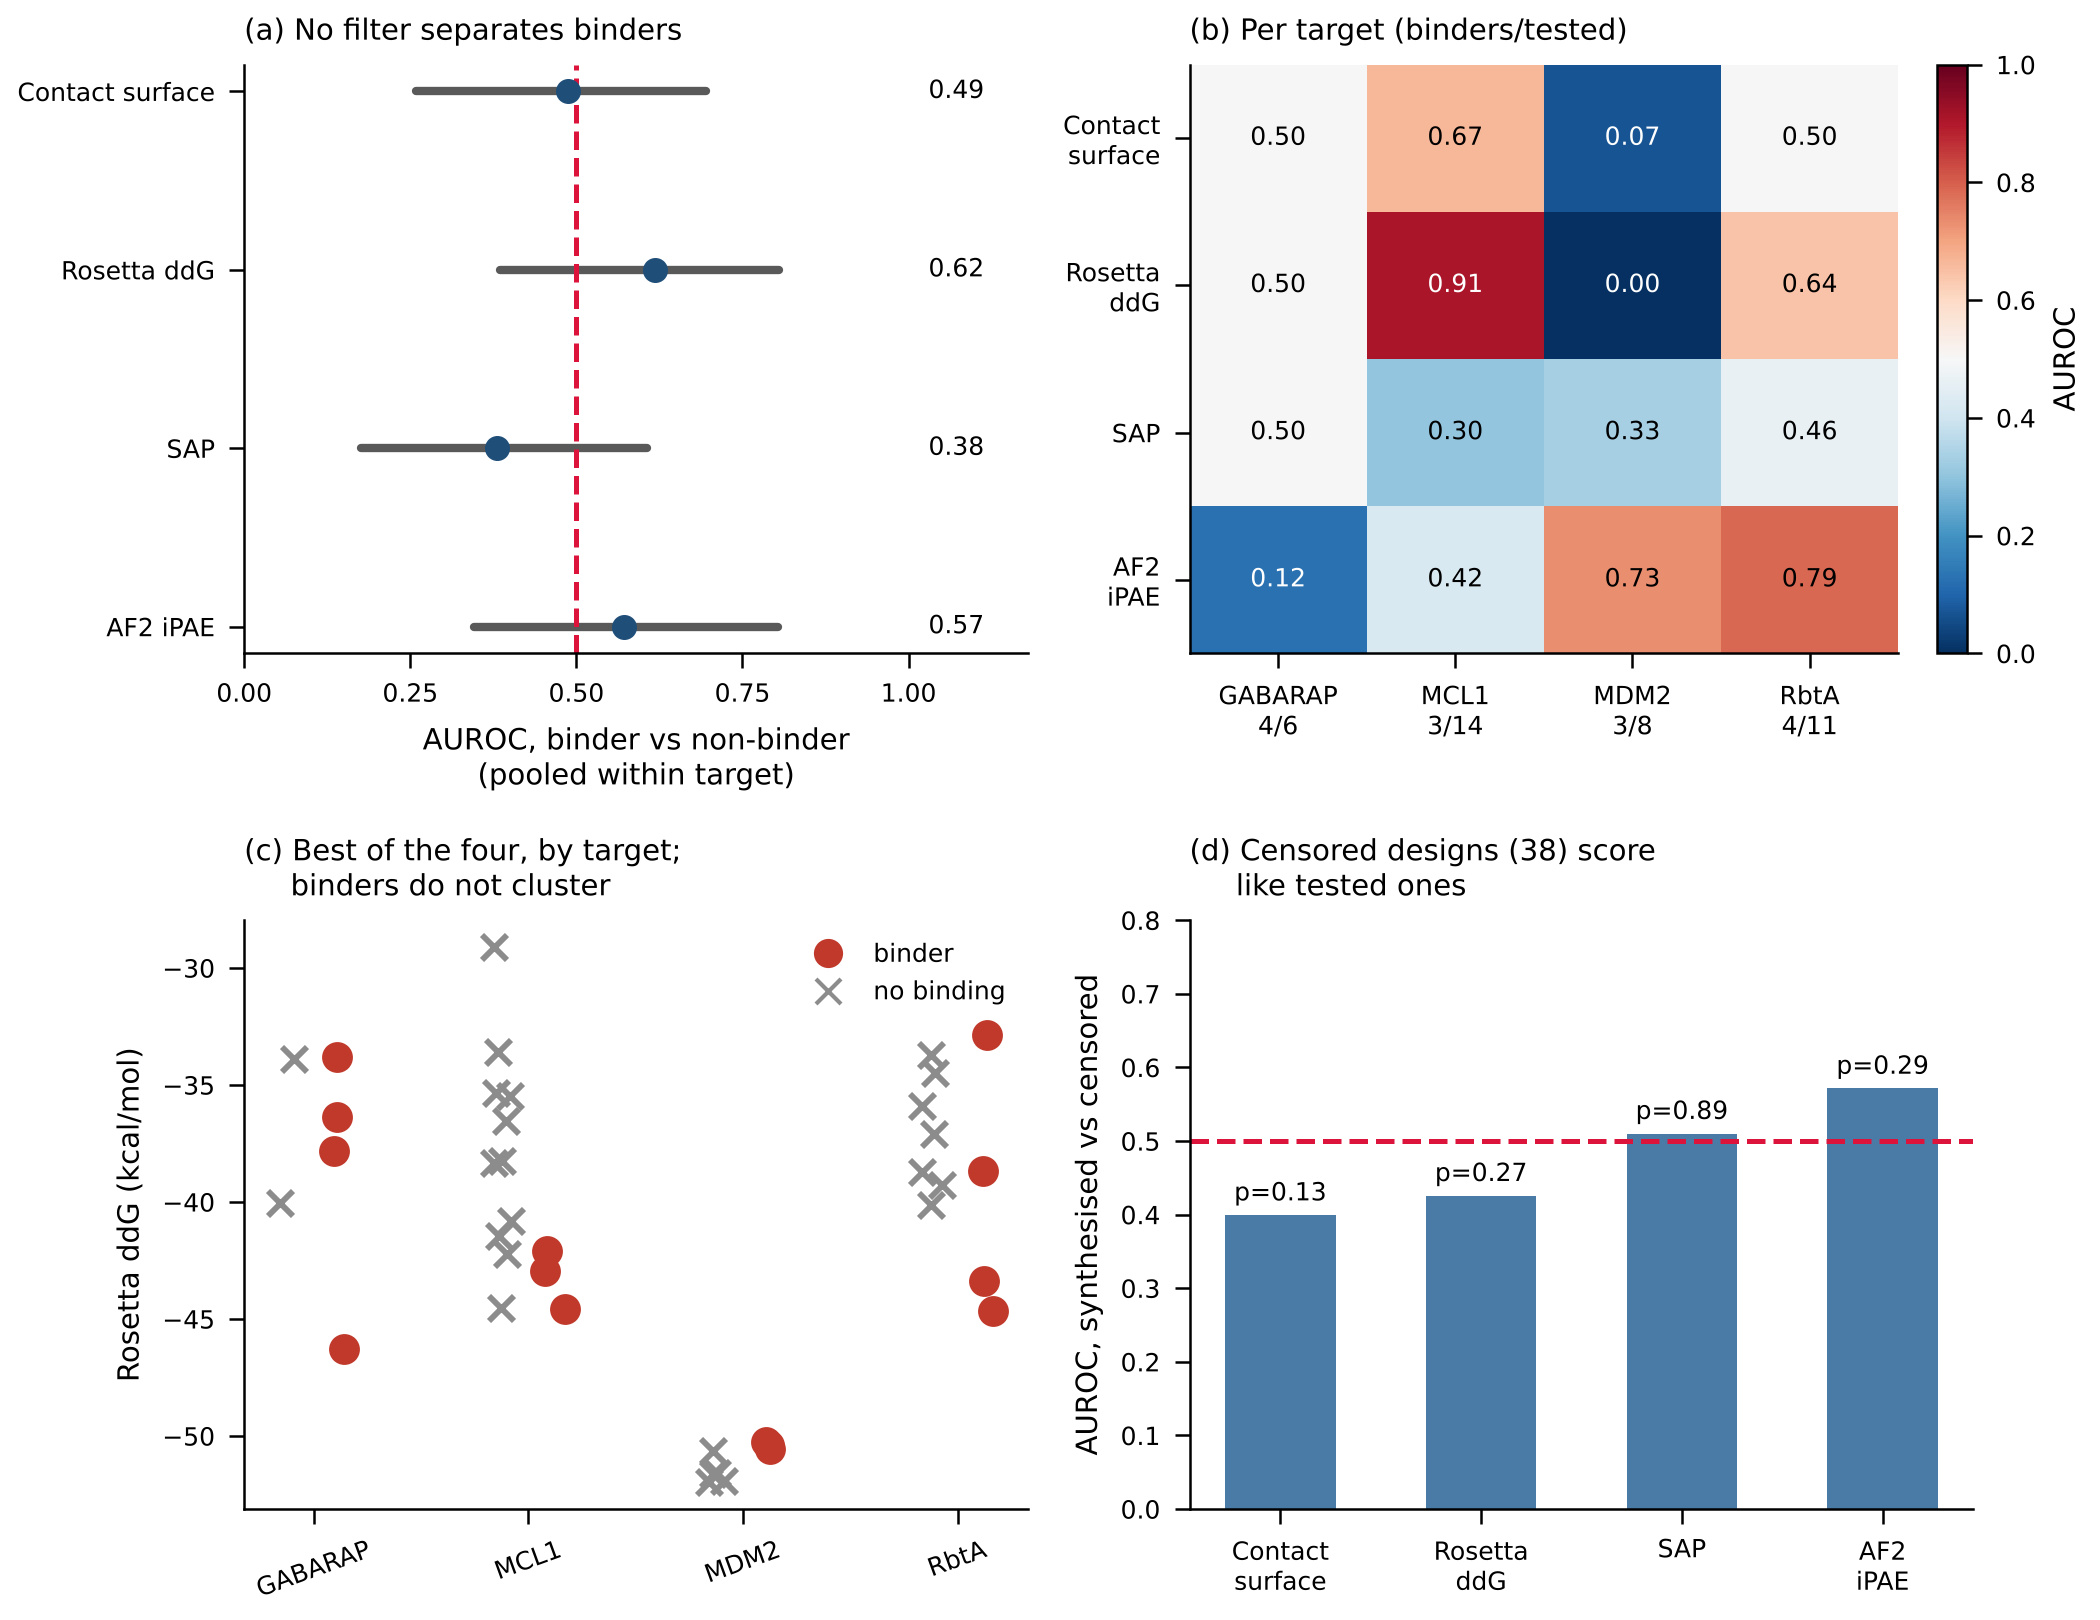
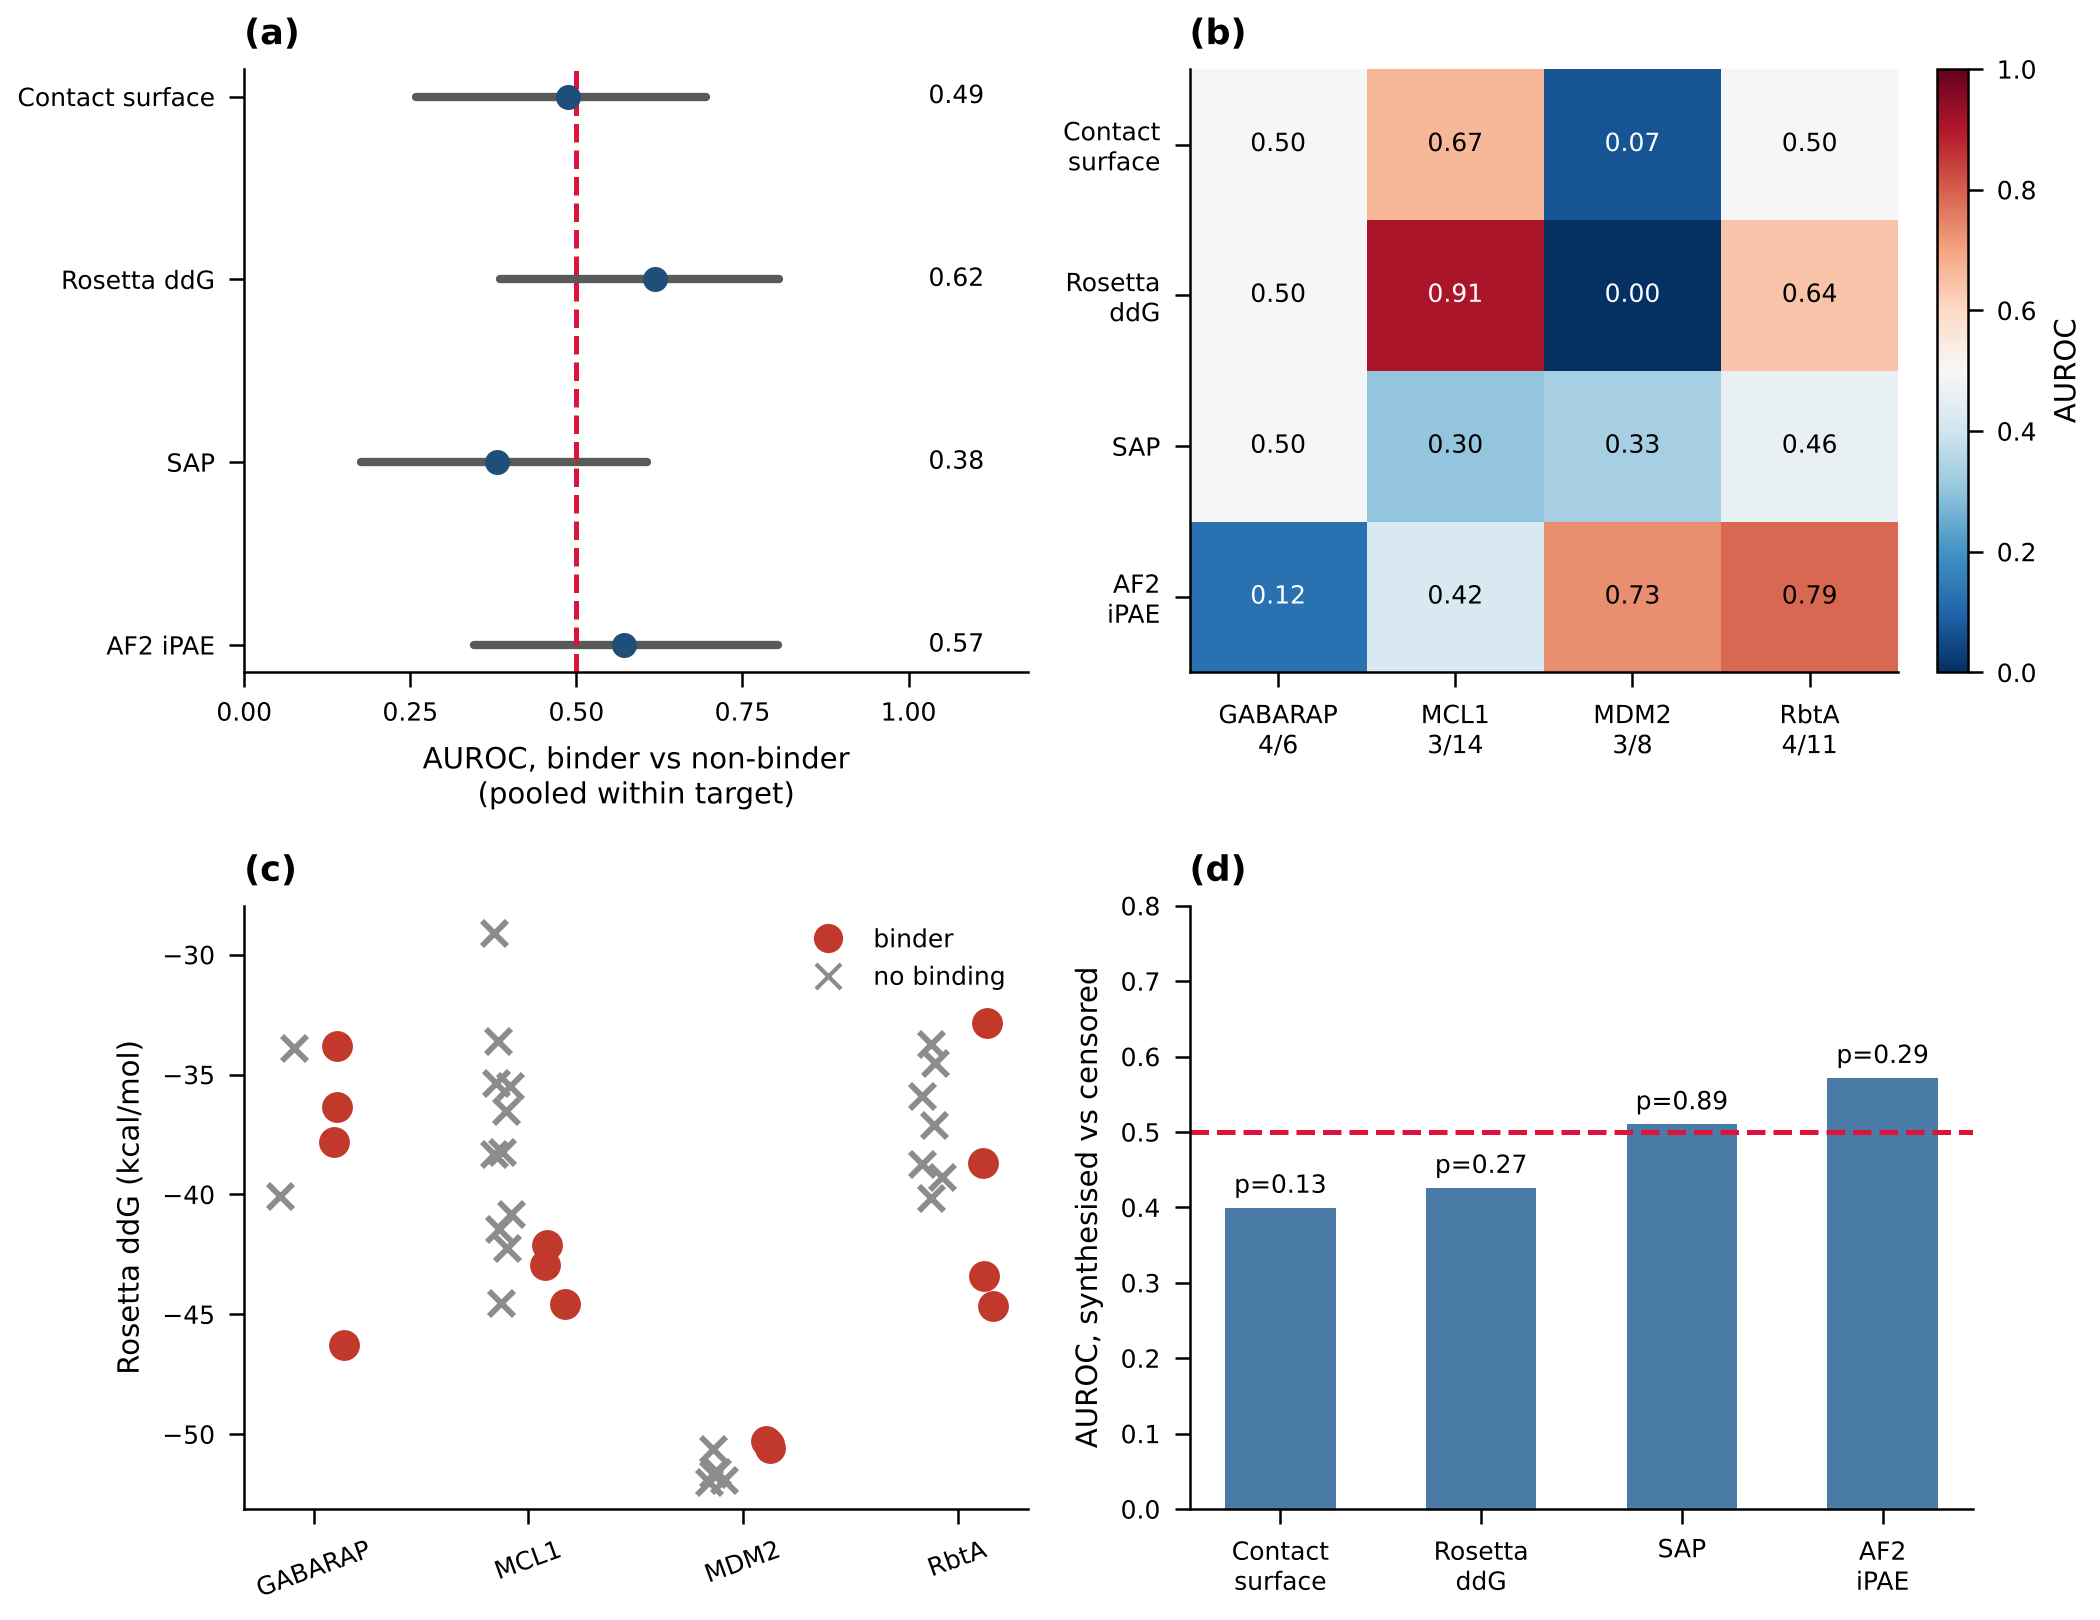
Label Figure 3's panels by letter, as Figures 1 and 2 are
The earlier pass changed make_figures.py, which draws Figures 1 and 2, but left
figure4_retrospective.py with its conclusions set as panel titles ("No filter
separates binders"). A conclusion lettered onto the plotting area reads as an
artefact of the plotting script rather than as a figure an author composed, and
having two conventions across three figures of one paper reads worse still. The
caption already says what each panel shows.

Claude-Session: https://claude.ai/code/session_015tTm46E1GJ57NZnBNvKc55

diff --git a/scripts/figure4_retrospective.py b/scripts/figure4_retrospective.py
@@ -60,7 +60,7 @@ def main() -> None:
     ax.set_xlim(0, 1.18)
     ax.set_xticks([0, 0.25, 0.5, 0.75, 1.0])
     ax.set_xlabel("AUROC, binder vs non-binder\n(pooled within target)")
-    ax.set_title("(a) No filter separates binders", fontsize=7, loc="left")
+    ax.set_title("(a)", loc="left", fontweight="bold")
 
     # (b) per-target AUROC
     ax = axes[1]
@@ -76,7 +76,7 @@ def main() -> None:
     ax.set_xticks(range(len(tgts)),
                   [f"{t}\n{n[t]['n_binders']}/{n[t]['n']}" for t in tgts], fontsize=6)
     ax.set_yticks(range(len(ORDER)), [SHORT[m] for m in ORDER], fontsize=6)
-    ax.set_title("(b) Per target (binders/tested)", fontsize=7, loc="left")
+    ax.set_title("(b)", loc="left", fontweight="bold")
     fig.colorbar(im, ax=ax, fraction=0.046, label="AUROC")
 
     # (c) the best-performing metric, design by design
@@ -93,8 +93,7 @@ def main() -> None:
     ax.set_xticks(range(len(tgts)), tgts, fontsize=6, rotation=20)
     ax.set_ylabel("Rosetta ddG (kcal/mol)")
     # Deliberately neutral: binders sit high on MCL1 and low on MDM2, which is the point.
-    ax.set_title("(c) Best of the four, by target;\n     binders do not cluster",
-                 fontsize=7, loc="left")
+    ax.set_title("(c)", loc="left", fontweight="bold")
     ax.plot([], [], "o", color="#c0392b", label="binder")
     ax.plot([], [], "x", color="0.55", label="no binding")
     ax.legend(fontsize=6, frameon=False)
@@ -112,8 +111,7 @@ def main() -> None:
     ax.set_xticks(x, [SHORT[m] for m in ORDER], fontsize=6)
     ax.set_ylim(0, 0.8)
     ax.set_ylabel("AUROC, synthesised vs censored", fontsize=7)
-    ax.set_title(f"(d) Censored designs ({res['censoring']['n_censored']}) score\n"
-                 "     like tested ones", fontsize=7, loc="left")
+    ax.set_title("(d)", loc="left", fontweight="bold")
 
     for ax in axes:
         ax.spines[["top", "right"]].set_visible(False)
